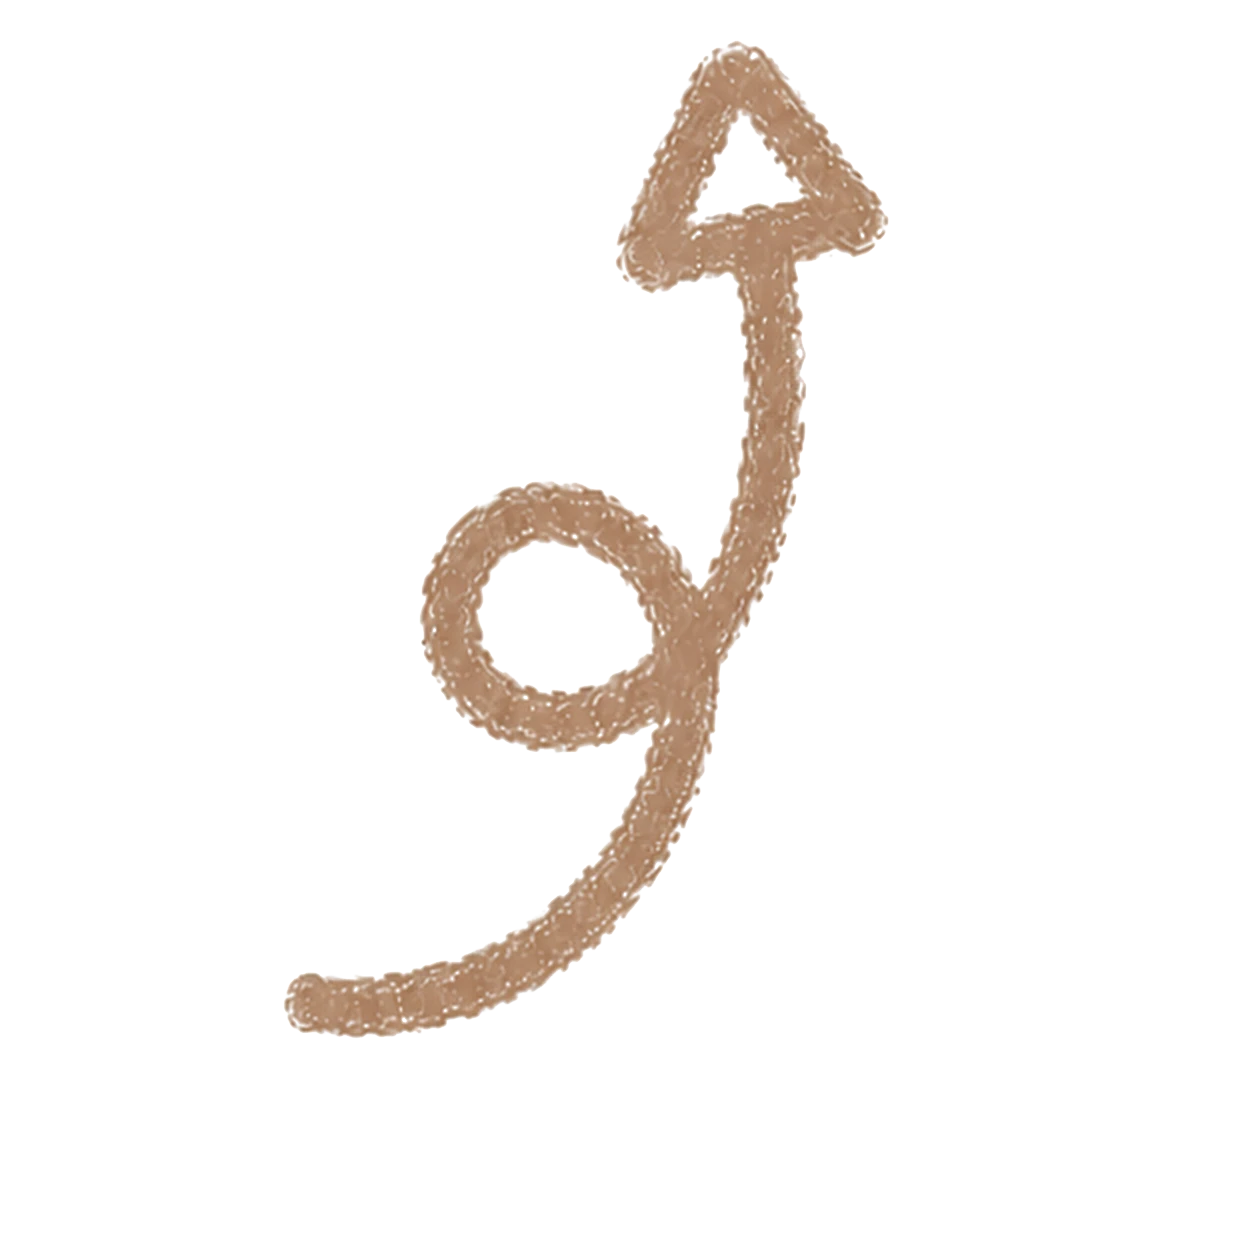
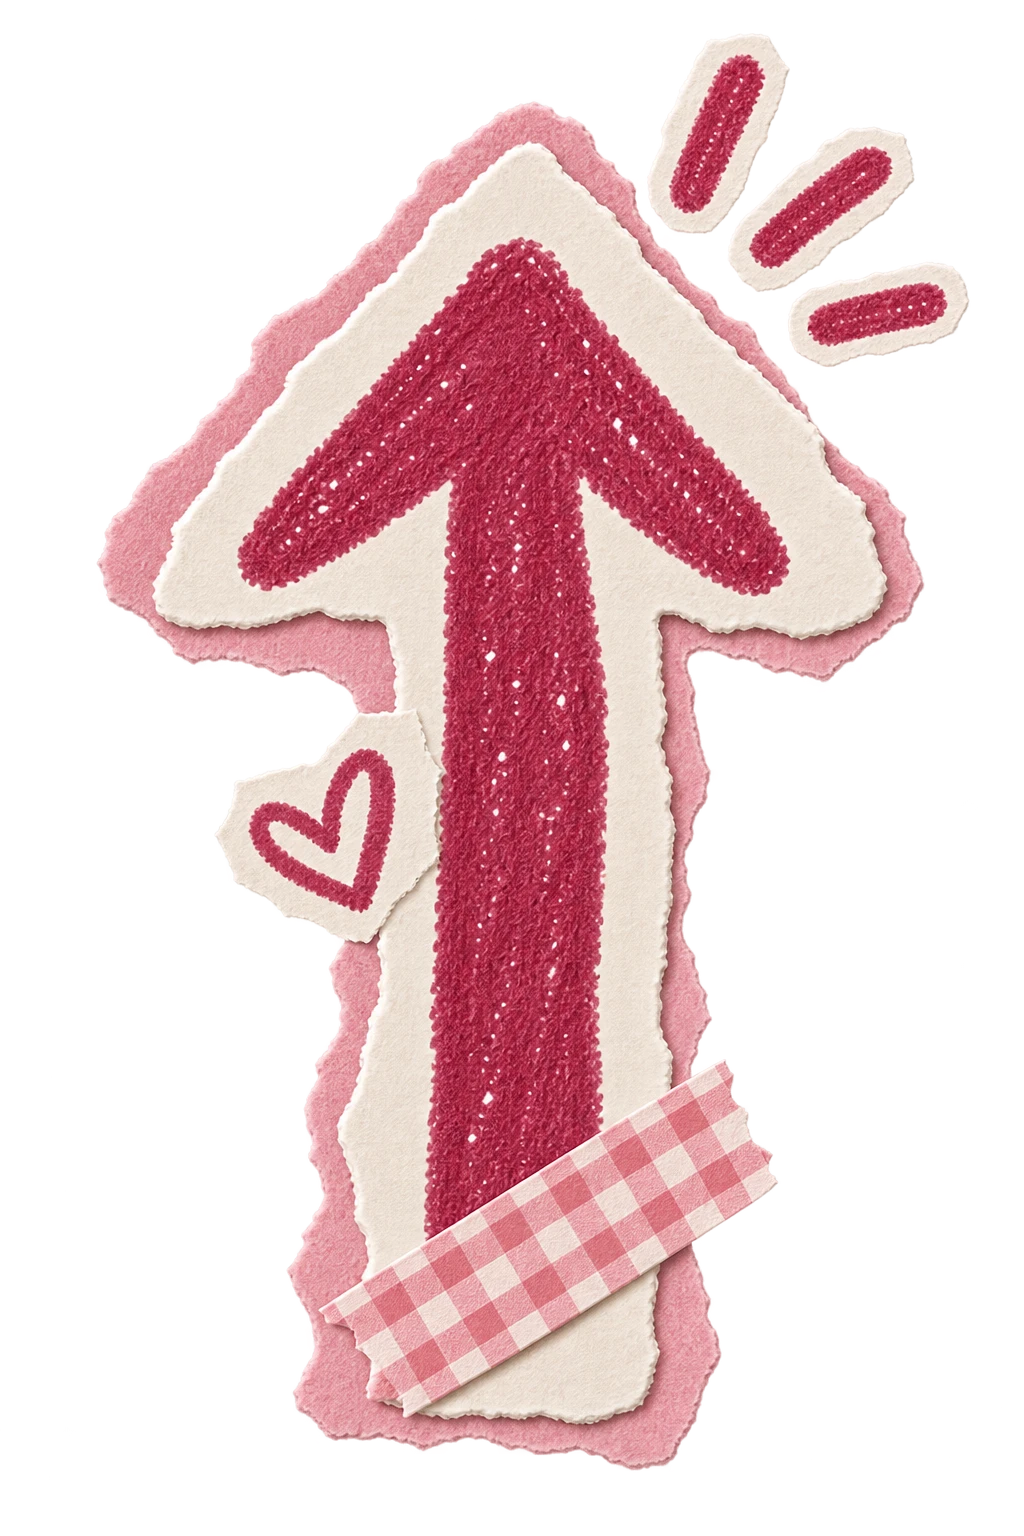
Swap arrow sticker for scrapbook-style torn-paper arrow

diff --git a/css/style.css b/css/style.css
@@ -1406,7 +1406,7 @@ audio { width: 100%; margin-top: 12px; accent-color: var(--pink); border-radius:
 .pc-flower-3 { top: 68%;  left: 83%;  width: 24%; transform: rotate(10deg); z-index: 2; } /* other-color flower — top of the bottom-right photo */
 .pc-camera-2 { top: 85%; left: -4%;  width: 32%; transform: rotate(-8deg); z-index: 7; } /* nudged up + right */
 .pc-clip { top: 25%; left: 88%; width: 12%; transform: rotate(80deg); z-index: 7; } /* turned near-horizontal/diagonal so it sits along the note's top edge instead of hanging down across the text */
-.pc-arrow { top: 88%; left: 62%; width: 26%; transform: rotate(-20deg); z-index: 7; } /* tip points down into pc-photo-4, the bottom-right photo */
+.pc-arrow { top: 88%; left: 62%; width: 26%; transform: rotate(160deg); z-index: 7; } /* new asset points up by default — flipped to point down into pc-photo-4 */
 .pc-arrow-text { top: 103%; left: 55%; width: 34%; transform: rotate(-6deg); z-index: 7; }
 /* extra bottom-left heart, per reference mockup */
 .pc-heart-c { top: 80%; left: -6%; width: 12%; transform: rotate(-10deg); z-index: 7; }
